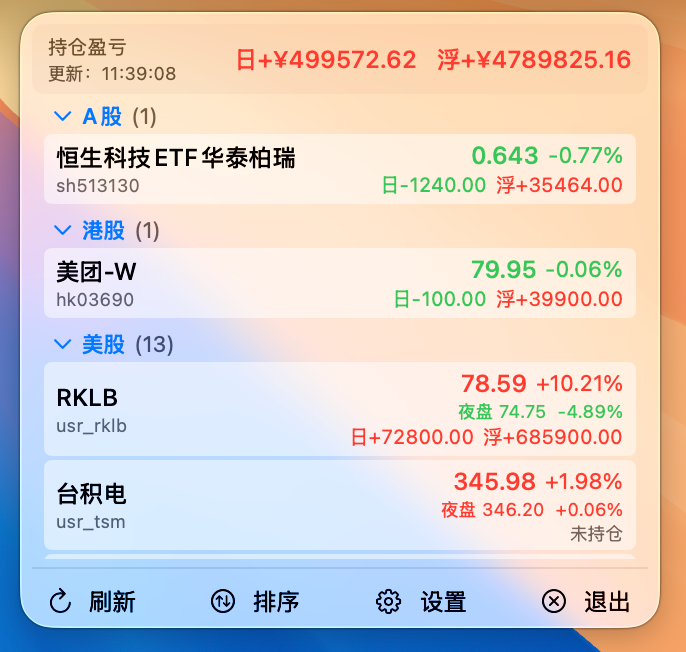
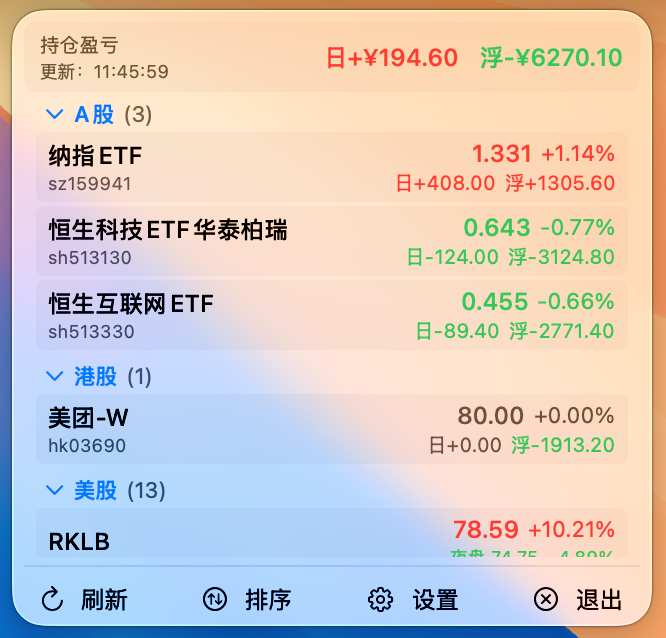
Update screenshot and unify stock row background
- Replace README screenshot with latest UI
- StockRowView: use Color.primary.opacity(0.04) to match ProfitSummaryView style

diff --git a/StockMonitor/Views/StockRowView.swift b/StockMonitor/Views/StockRowView.swift
@@ -72,7 +72,7 @@ struct StockRowView: View {
         }
         .padding(.horizontal, 6)
         .padding(.vertical, 3)
-        .background(Color(nsColor: .controlBackgroundColor).opacity(0.5))
+        .background(Color.primary.opacity(0.04))
         .cornerRadius(4)
         .contentShape(Rectangle())
         .onTapGesture { onTap?() }
